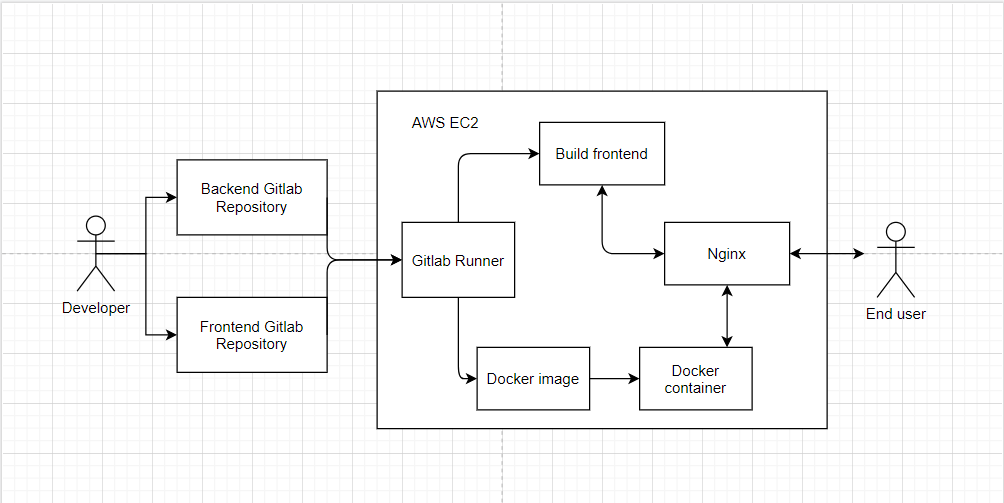
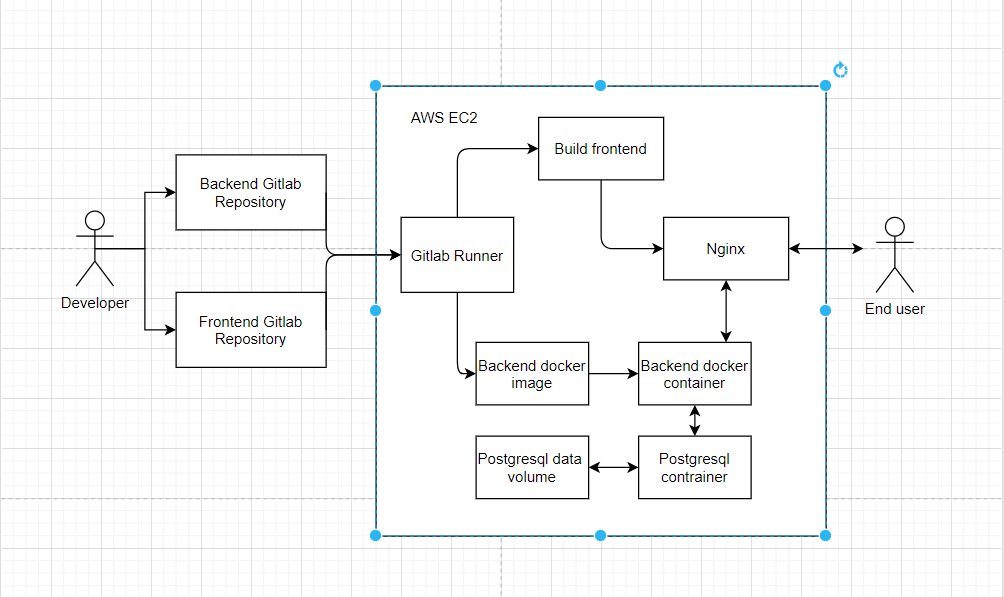
Update setup guide

diff --git a/DiagramDescription.md b/DiagramDescription.md
@@ -1,0 +1,31 @@
+# Components Diagram
+We are using one AWS EC2 server for building, testing and deployment. The server is using Ubuntu 20.04x.  
+All the configuration has been done by hand. Our configuration guide can be found [Here](ProductionInstallation.MD).  
+
+
+## Backend pipeline
+#### Build
+Building is done by gradle. The resulting jar is but into a docker image.
+#### Testing
+Testing is also executeb by gradle.
+#### Deployment
+Deployment consists of running a Postgreqsl docker container and the image from build is used to start a new backend container
+
+
+## Frontend pipeline
+#### Build
+Building the frontend consists of downloading the requirements and building the application
+#### Testing
+Currently, no tests for frontend.
+#### Deployment
+Deployment process removes old files from our webserver folder and copies the new built files.
+
+## Data paths
+
+## Frontend
+Nginx serves files from our webserver folder to the end user.
+
+## Backend
+Requests sent from our frontend are routed to our backend which uses the data from the Postgresql container to fulfill the
+ requests and then sends replies back.  
+ Postgresql container uses a volume for persistent storage.

diff --git a/ProductionInstallation.MD b/ProductionInstallation.MD
@@ -89,4 +89,9 @@ server {
 
 ```
 
+## Install nodejs
+```
+apt install nodejs
+```
+
 
